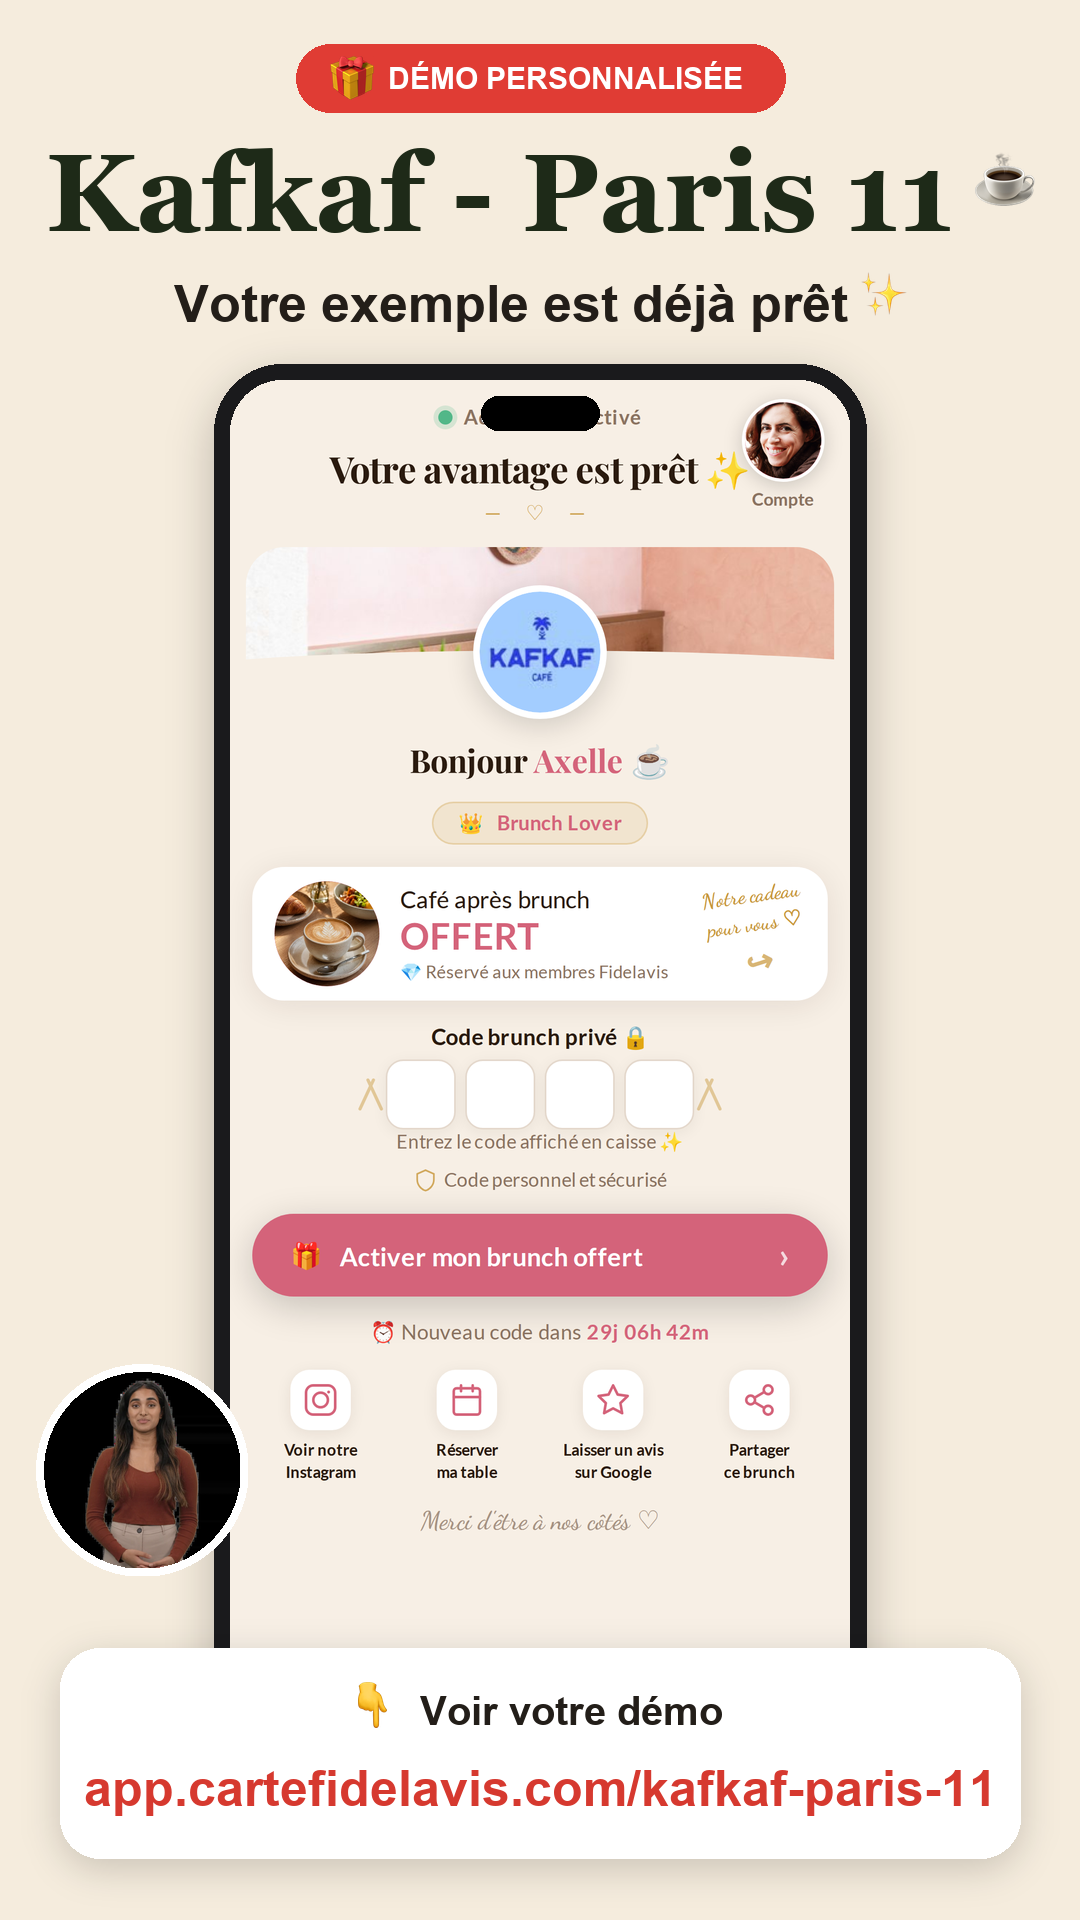
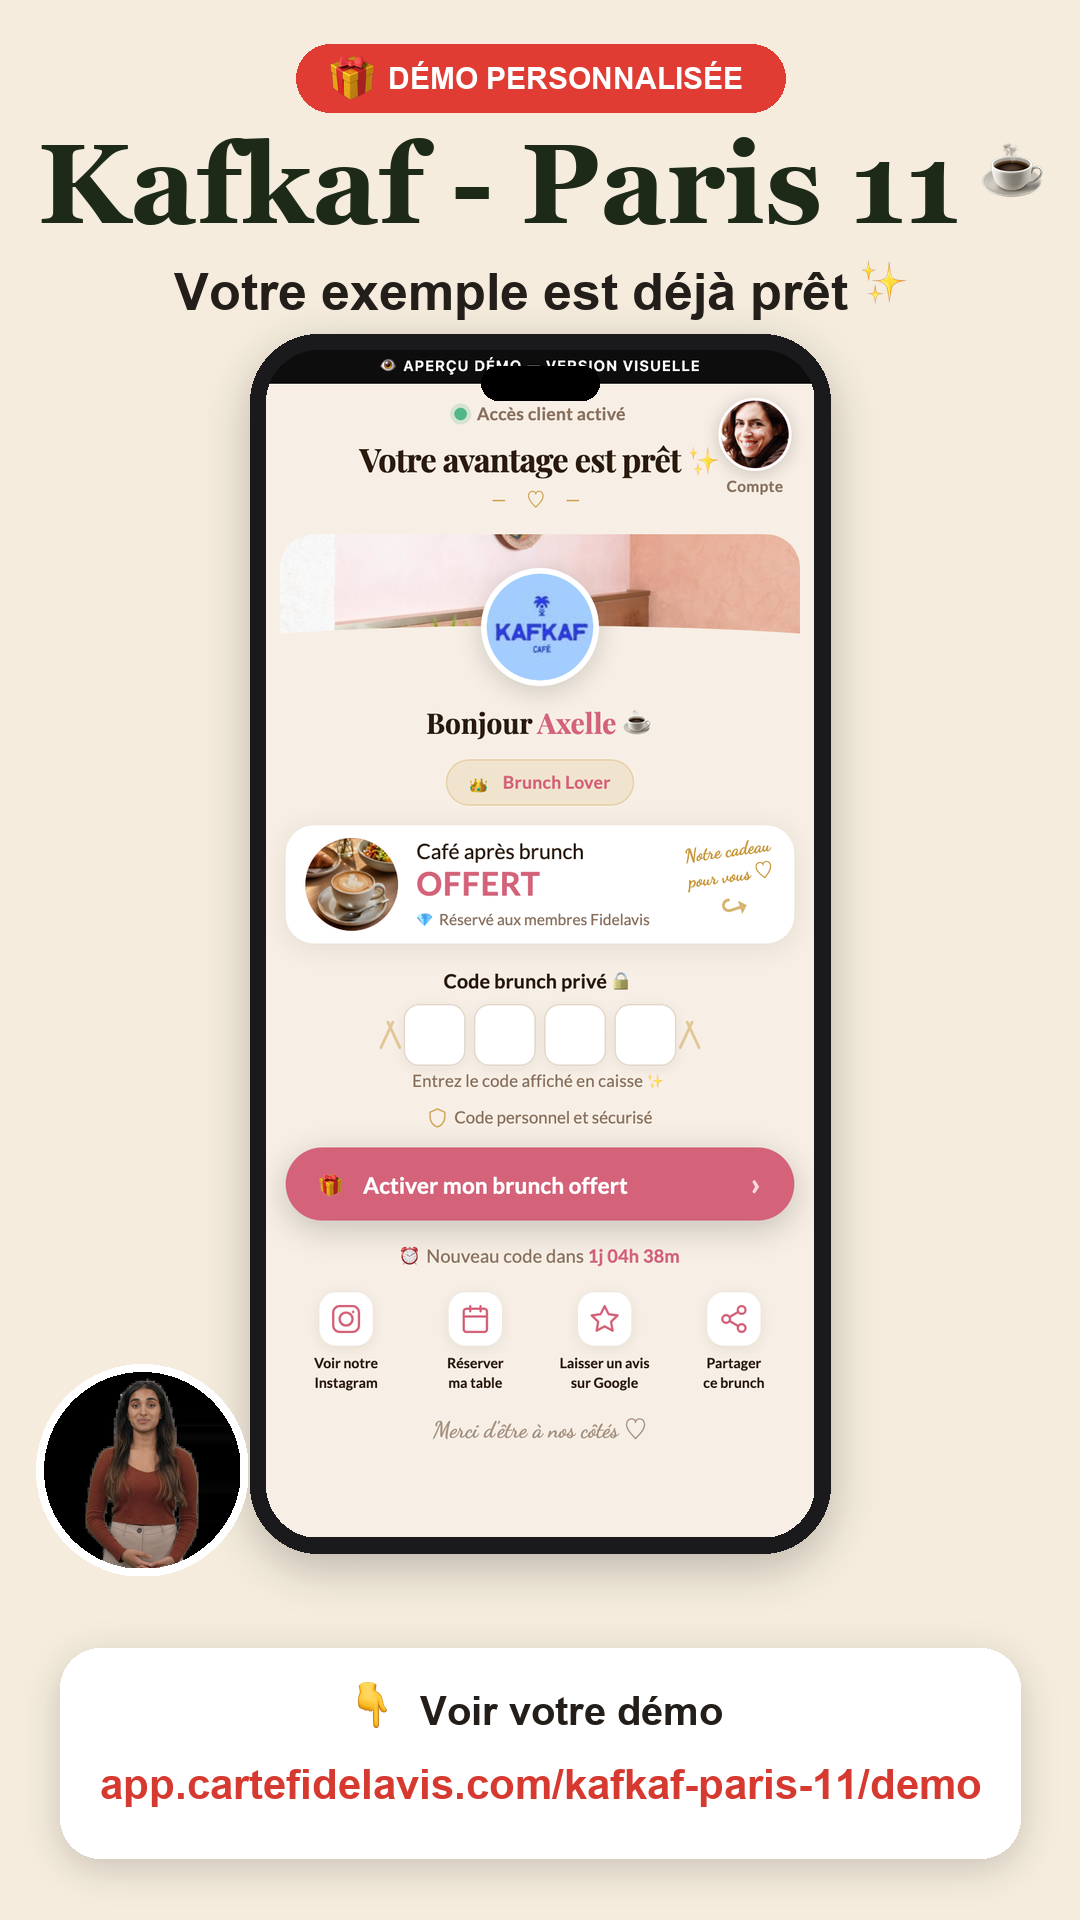
fix(story+video) : titre 2 lignes moins gros + téléphone réduit
- Nom 1 ligne : grand (168). Nom 2 lignes : police modérée (≤112) pour
  ne pas écraser la mise en page.
- Téléphone 620→548 + remonté → TOUT le wallet visible (4 icônes sociales
  Instagram/Réserver/Avis/Partager + « Merci ») au-dessus du bloc CTA.

Changed region(s): [[0.0306, 0.0625, 0.9778, 0.875], [0.0917, 0.9062, 0.9167, 0.9688]]

diff --git a/scripts/gen_dm_story.py b/scripts/gen_dm_story.py
@@ -196,18 +196,18 @@ def build_story(slug: str, name: str, wallet_url: str, video_bg: bool = False) -
     paste_emoji(img, "🎁", gift, px+34, py+(pill_h-gift)//2)
     d.text((px+34+gift+14, py+pill_h//2), badge_txt, font=fb, fill=WHITE, anchor="lm")
 
-    # ── Nom du restaurant — TRÈS GRAND, wrap si long (1er élément) ──
-    ft = SERIF(176)
+    # ── Nom du restaurant — grand sur 1 ligne, plus modéré si 2 lignes ──
     max_w = W - 150
-    # Réduit la police jusqu'à tenir sur 2 lignes maximum
-    while ft.size > 78:
-        lines = wrap(d, name, ft, max_w)
-        if len(lines) <= 2 and all(tw(d, ln, ft) <= max_w for ln in lines):
-            break
-        ft = SERIF(ft.size - 6)
+    ft = SERIF(168)
     lines = wrap(d, name, ft, max_w)
-    ty = 130
-    line_h = int(ft.size * 1.02)
+    if len(lines) > 1:
+        # 2 lignes → police plus petite pour ne pas écraser la mise en page
+        ft = SERIF(112)
+        lines = wrap(d, name, ft, max_w)
+        while (len(lines) > 2 or any(tw(d, ln, ft) > max_w for ln in lines)) and ft.size > 74:
+            ft = SERIF(ft.size - 6); lines = wrap(d, name, ft, max_w)
+    ty = 120
+    line_h = int(ft.size * 1.04)
     cup = int(ft.size * 0.55)
     for i, ln in enumerate(lines):
         lw = tw(d, ln, ft)
@@ -231,8 +231,10 @@ def build_story(slug: str, name: str, wallet_url: str, video_bg: bool = False) -
     # ── iPhone mockup (screenshot intact) — ÉLÉMENT DOMINANT ──
     # Plus grand + centré, marges latérales réduites. Le bas du téléphone se
     # glisse derrière le bloc CTA (dessiné après, opaque).
-    phone_top = y + 90
-    draw_phone(img, shot, cx=W//2, top=phone_top, screen_w=620)
+    # Téléphone : largeur réduite pour que TOUT le wallet (dont les 4 icônes
+    # sociales + « Merci ») reste au-dessus du bloc CTA (1648).
+    phone_top = y + 72
+    draw_phone(img, shot, cx=W//2, top=phone_top, screen_w=548)
 
     # ── Avatar bas-gauche — PETIT, ne masque pas le wallet ──
     if video_bg:
